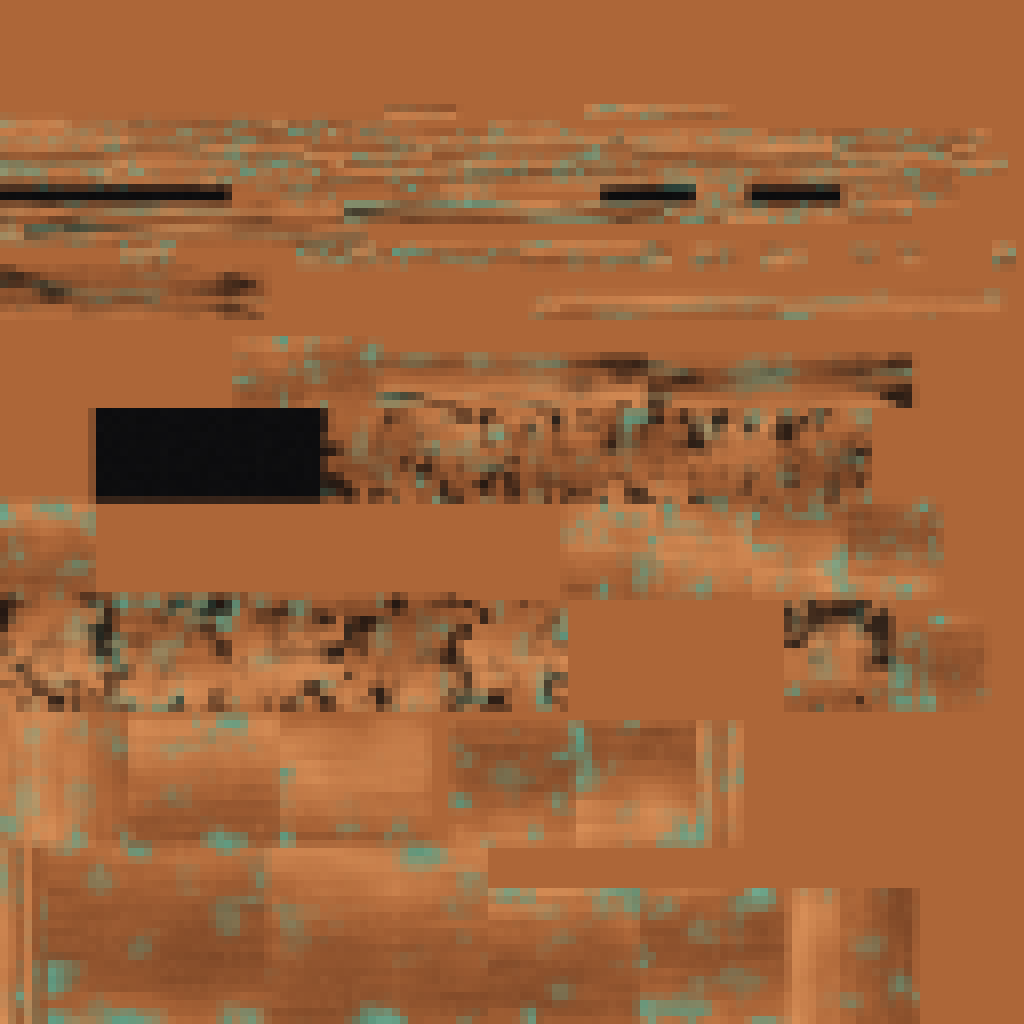
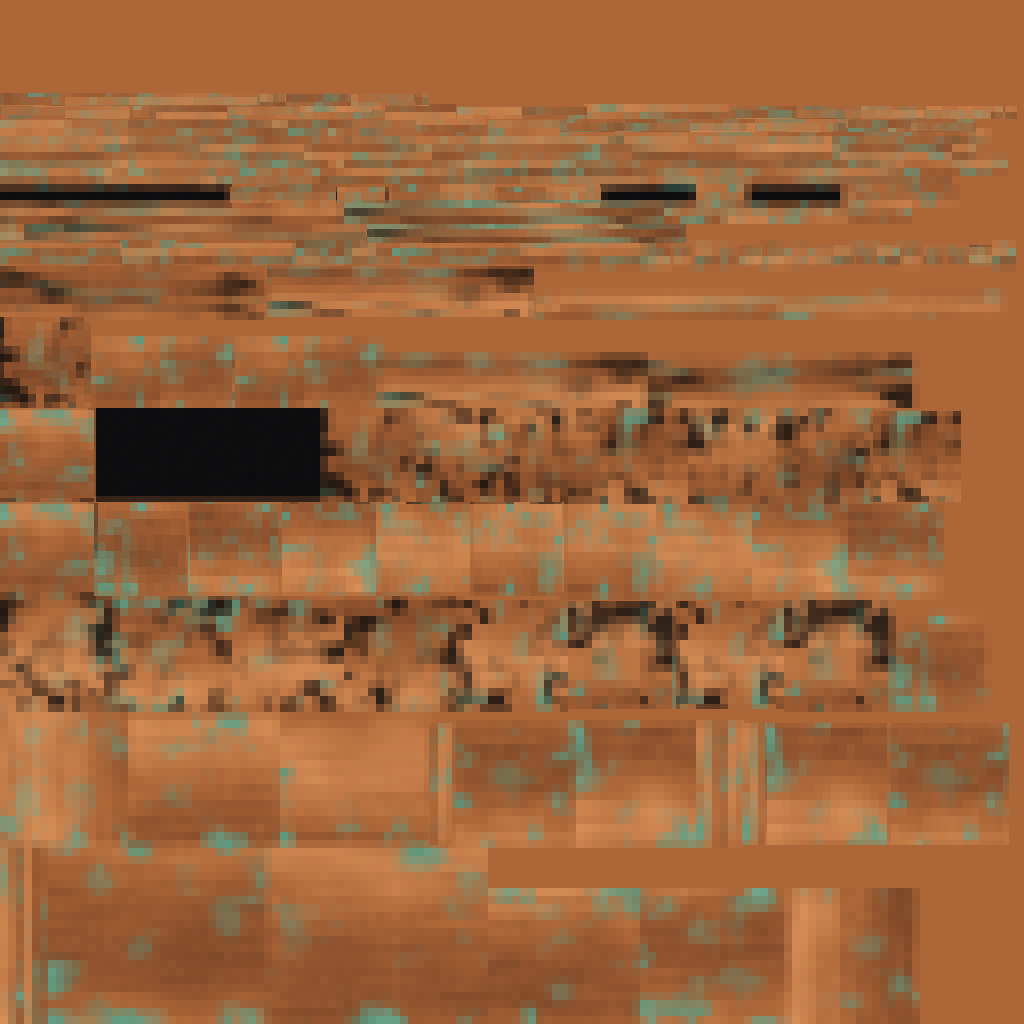
VRSAutomation 0.7.3

diff --git a/Conveyor.cs b/Conveyor.cs
@@ -120,13 +120,58 @@ namespace VRSAutomation
             }
 
             Mesh mesh = new Mesh();
-            mesh.name = side == 0 ? "VRS_AdapterDual" : "VRS_AdapterSingle";
+            mesh.name = side == 0 ? "VRS_AdapterDual" : side > 0 ? "VRS_AdapterIn" : "VRS_AdapterOut";
             mesh.SetVertices(v);
             UvPack.Track(mesh, uv, t);
             mesh.SetTriangles(t, 0);
             mesh.RecalculateNormals();
             mesh.RecalculateBounds();
             return mesh;
+        }
+
+        private static string IconFile(string name)
+        {
+            if (name == PieceName)
+            {
+                return "VRS_icon_conveyor.png";
+            }
+
+            if (name == SplitterName)
+            {
+                return "VRS_icon_splitter.png";
+            }
+
+            if (name == CombinerName)
+            {
+                return "VRS_icon_combiner.png";
+            }
+
+            if (name == AdapterDualName)
+            {
+                return "VRS_icon_adapter_dual.png";
+            }
+
+            return name == AdapterInName ? "VRS_icon_adapter_in.png" : name == AdapterOutName ? "VRS_icon_adapter_out.png" : null;
+        }
+
+        private static Sprite LoadIcon(string name)
+        {
+            string file = IconFile(name);
+            byte[] data = file != null ? Assets.ReadBytes(file) : null;
+            if (data == null)
+            {
+                return null;
+            }
+
+            Texture2D texture = new Texture2D(2, 2, TextureFormat.RGBA32, false);
+            if (!PipeTool.TryLoadPng(texture, data))
+            {
+                return null;
+            }
+
+            texture.filterMode = FilterMode.Bilinear;
+            texture.wrapMode = TextureWrapMode.Clamp;
+            return Sprite.Create(texture, new Rect(0f, 0f, texture.width, texture.height), new Vector2(0.5f, 0.5f));
         }
 
         private static void RegisterPiece(ConfigFile config, string name, string title, string description, string defaultCost, Mesh mesh, Vector3 colliderSize, Vector3 colliderCenter, Sprite icon)
@@ -138,7 +183,8 @@ namespace VRSAutomation
             pieceConfig.Description = description;
             pieceConfig.PieceTable = PieceTables.Hammer;
             pieceConfig.Category = Plugin.CategoryName;
-            pieceConfig.Icon = icon != null ? icon : FallbackIcon();
+            Sprite own = LoadIcon(name);
+            pieceConfig.Icon = own != null ? own : icon != null ? icon : FallbackIcon();
             foreach (KeyValuePair<string, int> part in Costs.Parse(cost.Value, defaultCost))
             {
                 pieceConfig.AddRequirement(new RequirementConfig(part.Key, part.Value, 0, true));
@@ -1517,6 +1563,7 @@ namespace VRSAutomation
     }
 }
 
+#if DEV
 namespace VRSAutomation
 {
     internal static class UvTemplate
@@ -1641,6 +1688,7 @@ namespace VRSAutomation
         }
     }
 }
+#endif
 
 namespace VRSAutomation
 {

diff --git a/Sounds.cs b/Sounds.cs
@@ -41,19 +41,9 @@ public static class Sounds
     private static GameObject host;
     private static bool started;
 
-    private static Type Find(string fullName, params string[] assemblyNames)
+    private static Type Find(string fullName, string assembly)
     {
-        foreach (string name in assemblyNames)
-        {
-            try { Assembly.Load(name); } catch { }
-        }
-        foreach (Assembly a in AppDomain.CurrentDomain.GetAssemblies())
-        {
-            Type t = null;
-            try { t = a.GetType(fullName, false); } catch { }
-            if (t != null) return t;
-        }
-        return null;
+        return Type.GetType(fullName + ", " + assembly, false) ?? HarmonyLib.AccessTools.TypeByName(fullName);
     }
 
     public static void Start()

diff --git a/Plugin.cs b/Plugin.cs
@@ -17,7 +17,7 @@ namespace VRSAutomation
     {
         public const string PluginGuid = "VRSMLTD.VRSAutomation";
         public const string PluginName = "VRSAutomation";
-        public const string PluginVersion = "0.7.2";
+        public const string PluginVersion = "0.7.3";
         public const string LinkTableName = "_VRSLinkToolPieceTable";
         public const string PipeToolName = "VRS_Pipe";
         public const string LinkToolName = "VRS_LinkTool";

diff --git a/PipeNet.cs b/PipeNet.cs
@@ -37,7 +37,6 @@ namespace VRSAutomation
     {
         internal static void Postfix(ZNetScene __instance)
         {
-            IconRenderer.Run(__instance);
             ToolModel.Refresh();
             GameObject pipePrefab = PipePrefab.Get();
             if (!__instance.m_prefabs.Contains(pipePrefab))

diff --git a/CHANGELOG.md b/CHANGELOG.md
@@ -1,5 +1,11 @@
 # Changelog
 
+## 0.7.3
+
+- Fixed the input adapter missing its painted texture (vent grill and patina).
+- Build menu icons are now shipped as images instead of being rendered at launch, so they look the same every time.
+- Simplified how the mod loads its sound effects.
+
 ## 0.7.2
 
 First public release.
